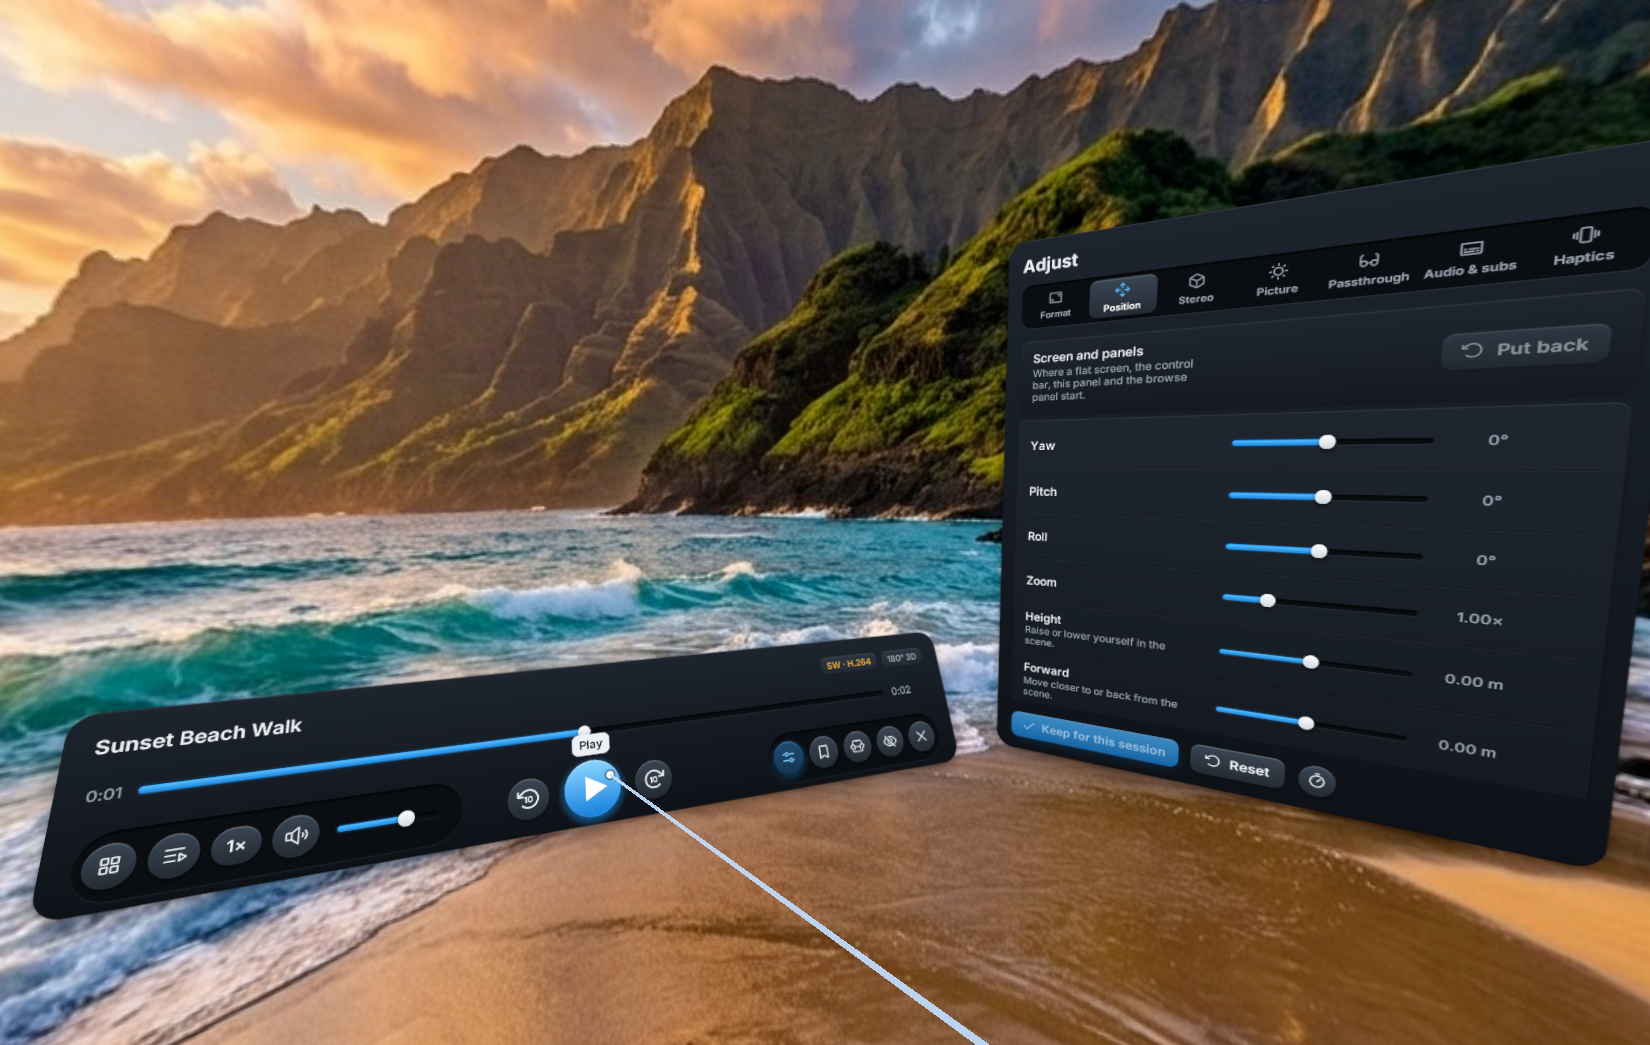
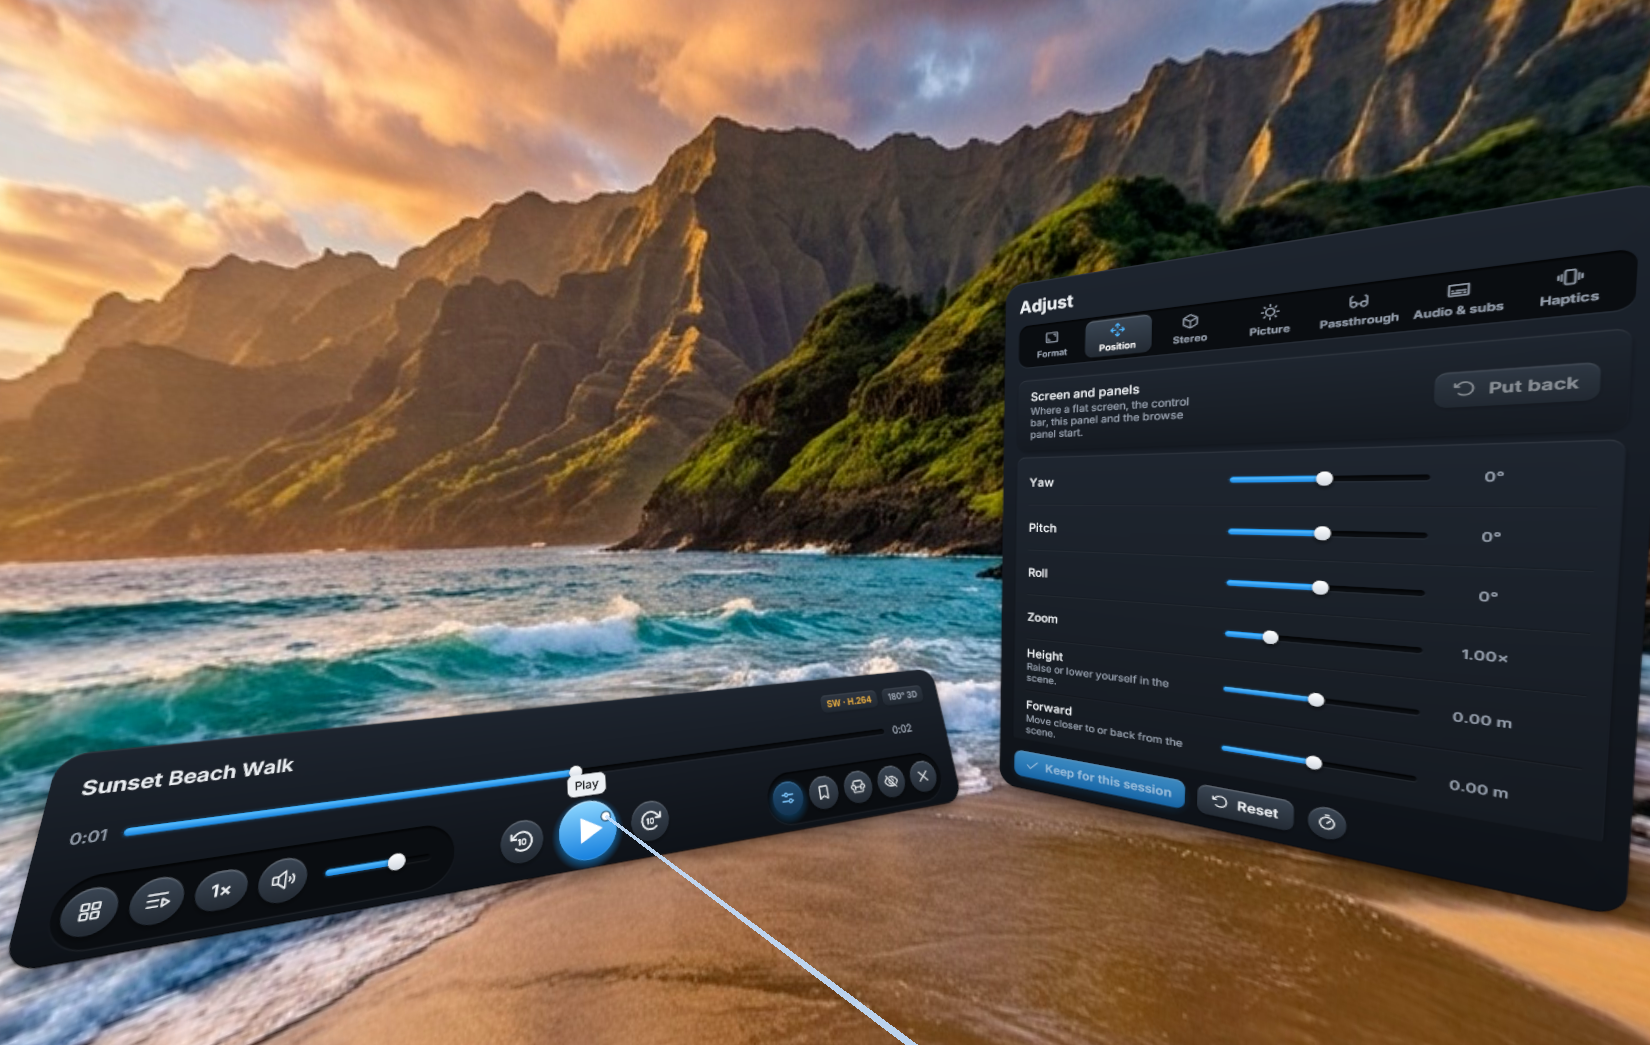
fix: slight tweaks to default position of panel and player

diff --git a/crates/frameplayerx/src/world.rs b/crates/frameplayerx/src/world.rs
@@ -769,8 +769,8 @@ mod tests {
         assert!(ahead.distance(picture) < 1e-4, "{ahead} vs {picture}");
         assert!(ahead.y < -0.3, "negative pitch moves it down");
         // The bar's spot below the view stays below it, at the same distance.
-        let bar = place(turned, 0.0, 1.05, -0.42, 28.0).transform_point3(Vec3::ZERO);
-        let rest = place(anchor, 0.0, 1.05, -0.42, 28.0).transform_point3(Vec3::ZERO);
+        let bar = place(turned, 0.0, 1.05, -0.32, 22.0).transform_point3(Vec3::ZERO);
+        let rest = place(anchor, 0.0, 1.05, -0.32, 22.0).transform_point3(Vec3::ZERO);
         assert!(((bar - head).length() - (rest - head).length()).abs() < 1e-4);
         assert!((bar - head).dot(picture) > 0.9 * (bar - head).length());
         // No roll: the panel's right edge stays level.
@@ -860,8 +860,8 @@ mod tests {
     fn player(anchor: Mat4, flat: bool, picture: [f32; 2], bar: [f32; 2]) -> (Mat4, Mat4) {
         let from = player_frame(anchor, flat, picture, bar);
         (
-            place(from, 0.0, 1.05, -0.42, 28.0),
-            place_around(from, -52.0, 0.0, 1.15, -0.08),
+            place(from, 0.0, 1.05, -0.32, 22.0),
+            place_around(from, -52.0, 0.0, 1.15, 0.0),
         )
     }
 
@@ -930,16 +930,16 @@ mod tests {
     fn the_browse_panel_starts_upright_a_little_below_where_you_face() {
         let eye = Vec3::new(0.0, 1.2, 0.0);
         let anchor = anchor_from_head(eye, Quat::IDENTITY);
-        let panel = place_below(anchor, 0.0, 0.0, 1.5, 12.0);
+        let panel = place_below(anchor, 0.0, 0.0, 1.5, 7.0);
         assert!(
             panel.transform_vector3(Vec3::Y).abs_diff_eq(Vec3::Y, 1e-5),
             "browse panel tilted"
         );
-        let down = 12f32.to_radians();
+        let down = 7f32.to_radians();
         let expected = eye + Vec3::new(0.0, -down.sin(), -down.cos()) * 1.5;
         assert!(centre(panel).distance(expected) < 1e-4);
         // Moved up and aside, it still faces you.
-        let moved = place_below(anchor, 30.0, 20.0, 1.5, 12.0);
+        let moved = place_below(anchor, 30.0, 20.0, 1.5, 7.0);
         assert!(moved.transform_vector3(Vec3::Z).dot(eye - centre(moved)) > 0.0);
     }
 

diff --git a/crates/frameplayerx/src/app/frame.rs b/crates/frameplayerx/src/app/frame.rs
@@ -384,8 +384,8 @@ impl App {
         let [my, mp] = self.offsets.main;
         let [ay, ap] = self.offsets.adjust;
         self.panels[MAIN].pose = place_below(anchor, my, mp, 1.5, BELOW_DEG);
-        self.panels[BAR].pose = place(bar_anchor, 0.0, 1.05, -0.42, 28.0);
-        self.panels[ADJUST].pose = place_around(adjust_anchor, beside + ay, ap, 1.15, -0.08);
+        self.panels[BAR].pose = place(bar_anchor, 0.0, 1.05, -0.32, 22.0);
+        self.panels[ADJUST].pose = place_around(adjust_anchor, beside + ay, ap, 1.15, 0.0);
         // The keyboard sits below the panel it types into, turned with it, so
         // it is where that panel was moved to.
         let (kb_from, [ky, kp]) = match kb_target {

diff --git a/crates/frameplayerx/src/app/mod.rs b/crates/frameplayerx/src/app/mod.rs
@@ -99,7 +99,7 @@ const PERF_OFFSET: Vec3 = Vec3::new(-0.3, -0.12, -0.85);
 /// front of you is a little below eye level (the panel's top bar, Quit
 /// among it, is then about level with your eyes). It stands upright there,
 /// like a flat screen, rather than tilting back towards your eyes.
-const BELOW_DEG: f32 = 12.0;
+const BELOW_DEG: f32 = 7.0;
 
 /// How long a video may take to open before the app gives up on it. A
 /// server that never sends a frame (a live transcode it can't keep up with)
